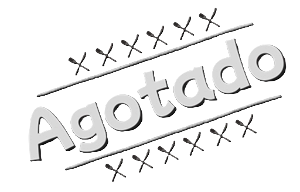
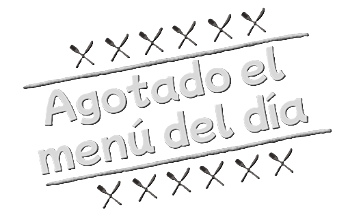
se agrega la foto del goulash y se modifican los tamaños de los titulos del menu del dia.

Changed region(s): [[0.06, 0.0312, 0.96, 0.9375]]

diff --git a/src/app/menus/menus.component.html b/src/app/menus/menus.component.html
@@ -12,19 +12,19 @@
           <h5>{{ menuFirebase.carneDia }}</h5>
           <img src="{{ menuFirebase.img }}" alt="menu dia" id="imgDia"/>
           <p class="card-text" id="menuDia">
-            <b id="subtitulo-menudia">Carnes</b>
+            <b id="subtitulo-menudia">- Carnes -</b>
             <br>
             Res - Cerdo - Chicharrón - Molida - Pechuga - Sobrebarriga Sudada
             <br>
-            <b id="subtitulo-menudia">Sopas</b>
+            <b id="subtitulo-menudia">- Sopas -</b>
             <br>
             {{ menuFirebase.sopaDia }} - Frijoles - Consome de pescado
             <br>
-            <b id="subtitulo-menudia">Bebidas</b>
+            <b id="subtitulo-menudia">- Bebidas -</b>
             <br>
             {{ menuFirebase.bebidaDia }} - Guarapo - Claro - Mazamorra
             <br>
-            <b id="subtitulo-menudia">Ensaladas</b>
+            <b id="subtitulo-menudia">- Ensaladas -</b>
             <br>{{ menuFirebase.ensalada }}
           </p>
         </div>

diff --git a/src/app/menus/menus.component.css b/src/app/menus/menus.component.css
@@ -46,6 +46,7 @@ p{
 
 #subtitulo-menudia{
   color: rgba(255, 204, 0, 0.769);
+  font-size: 24px;
 }
 #title-list{
   border-bottom: 1px solid;
